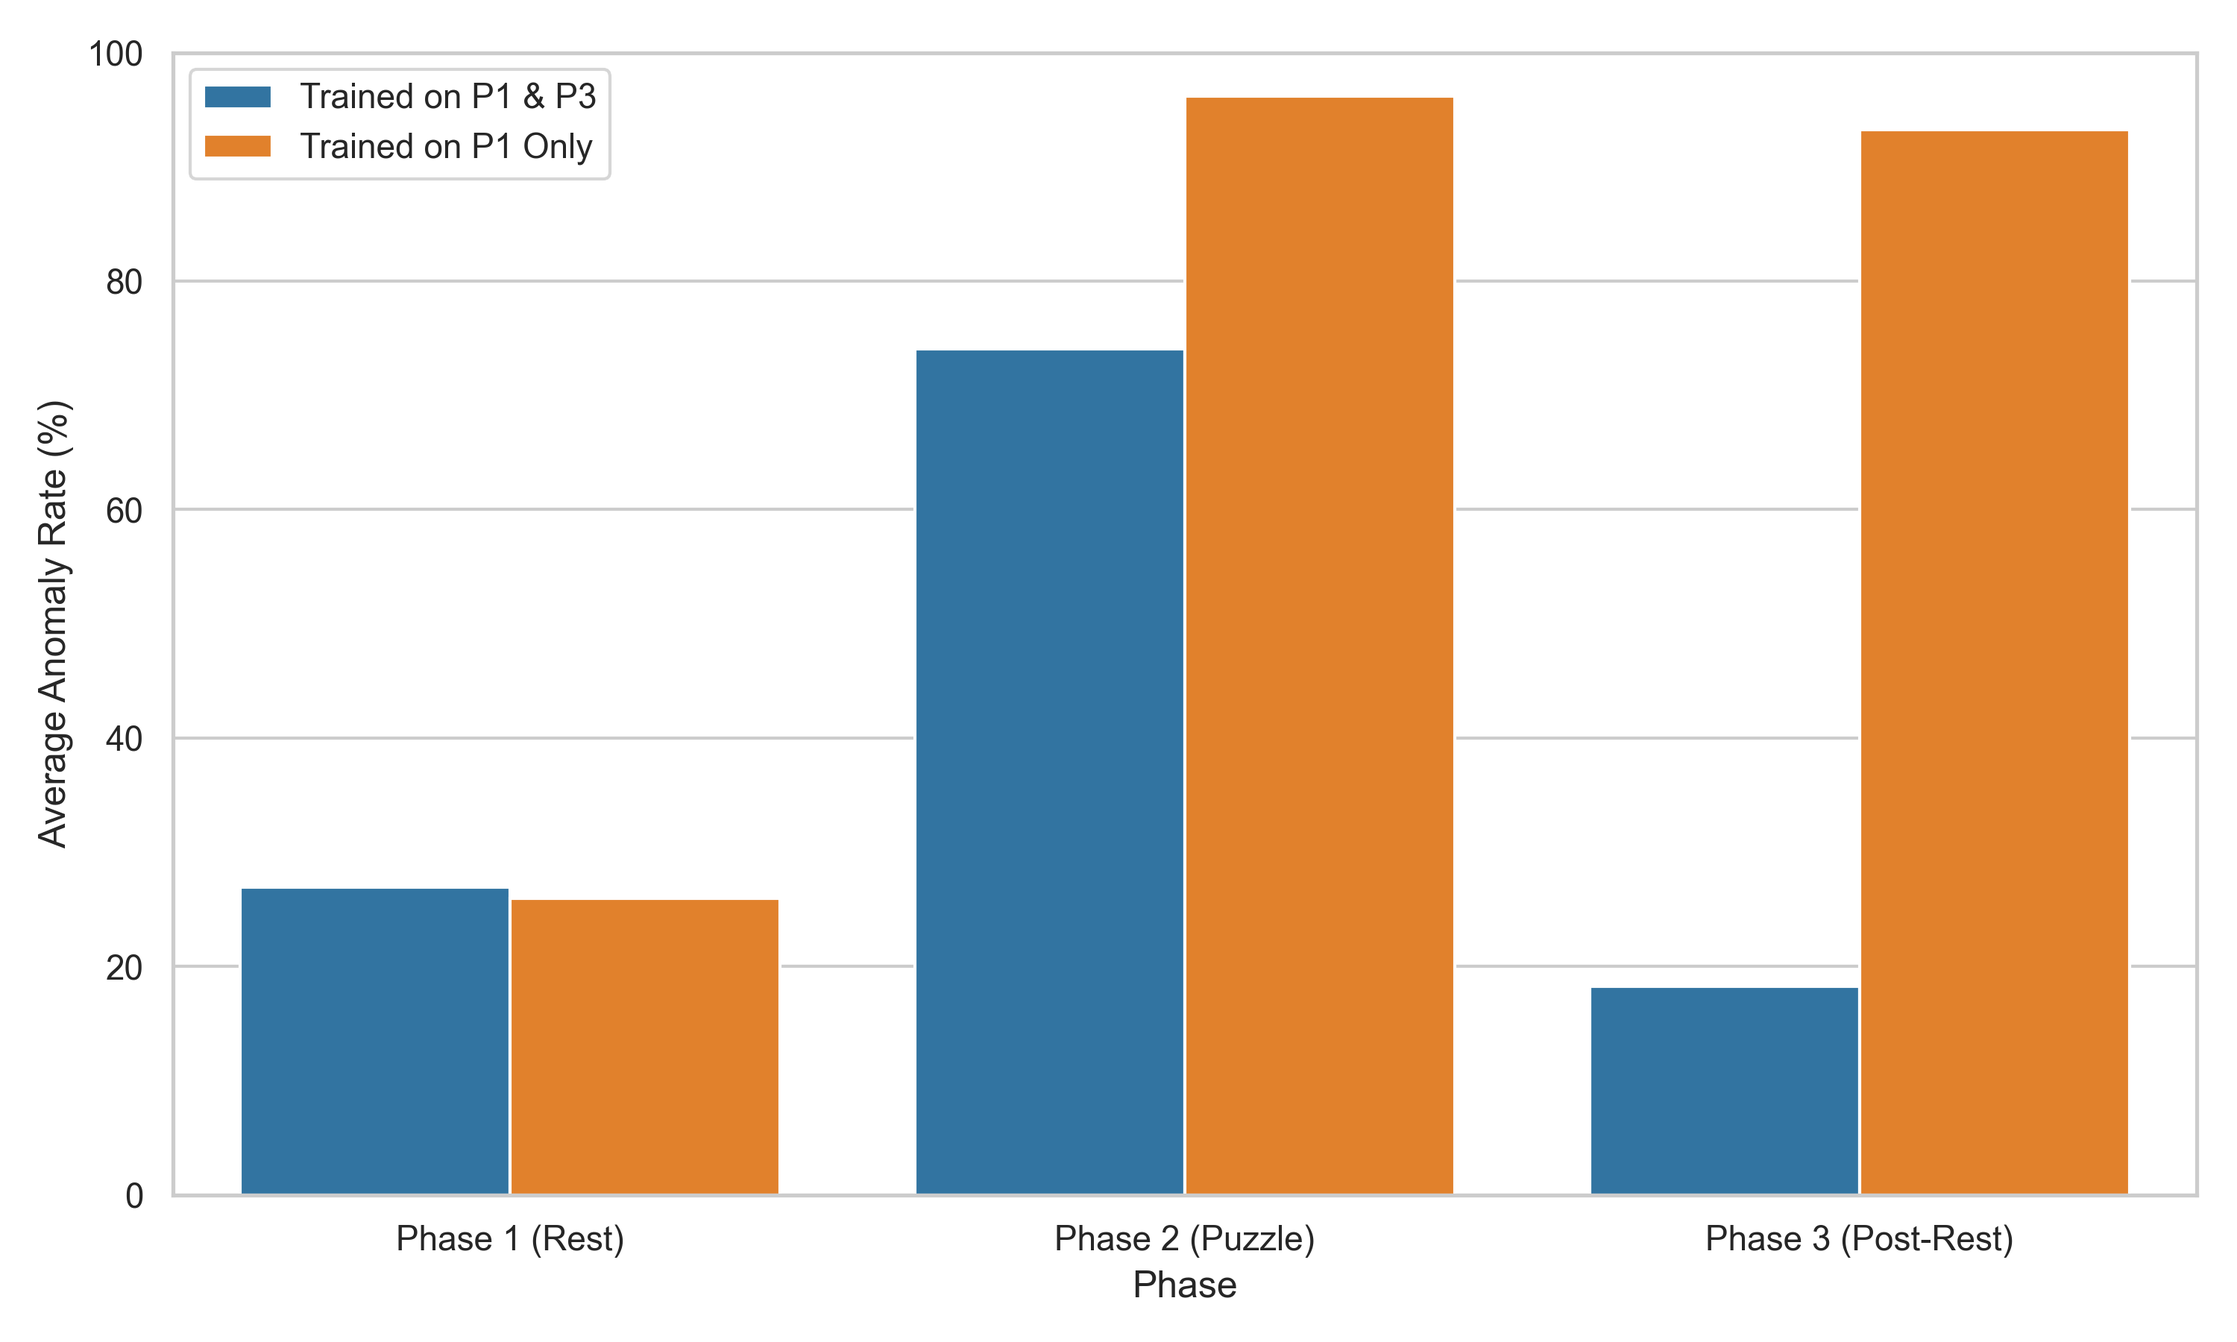
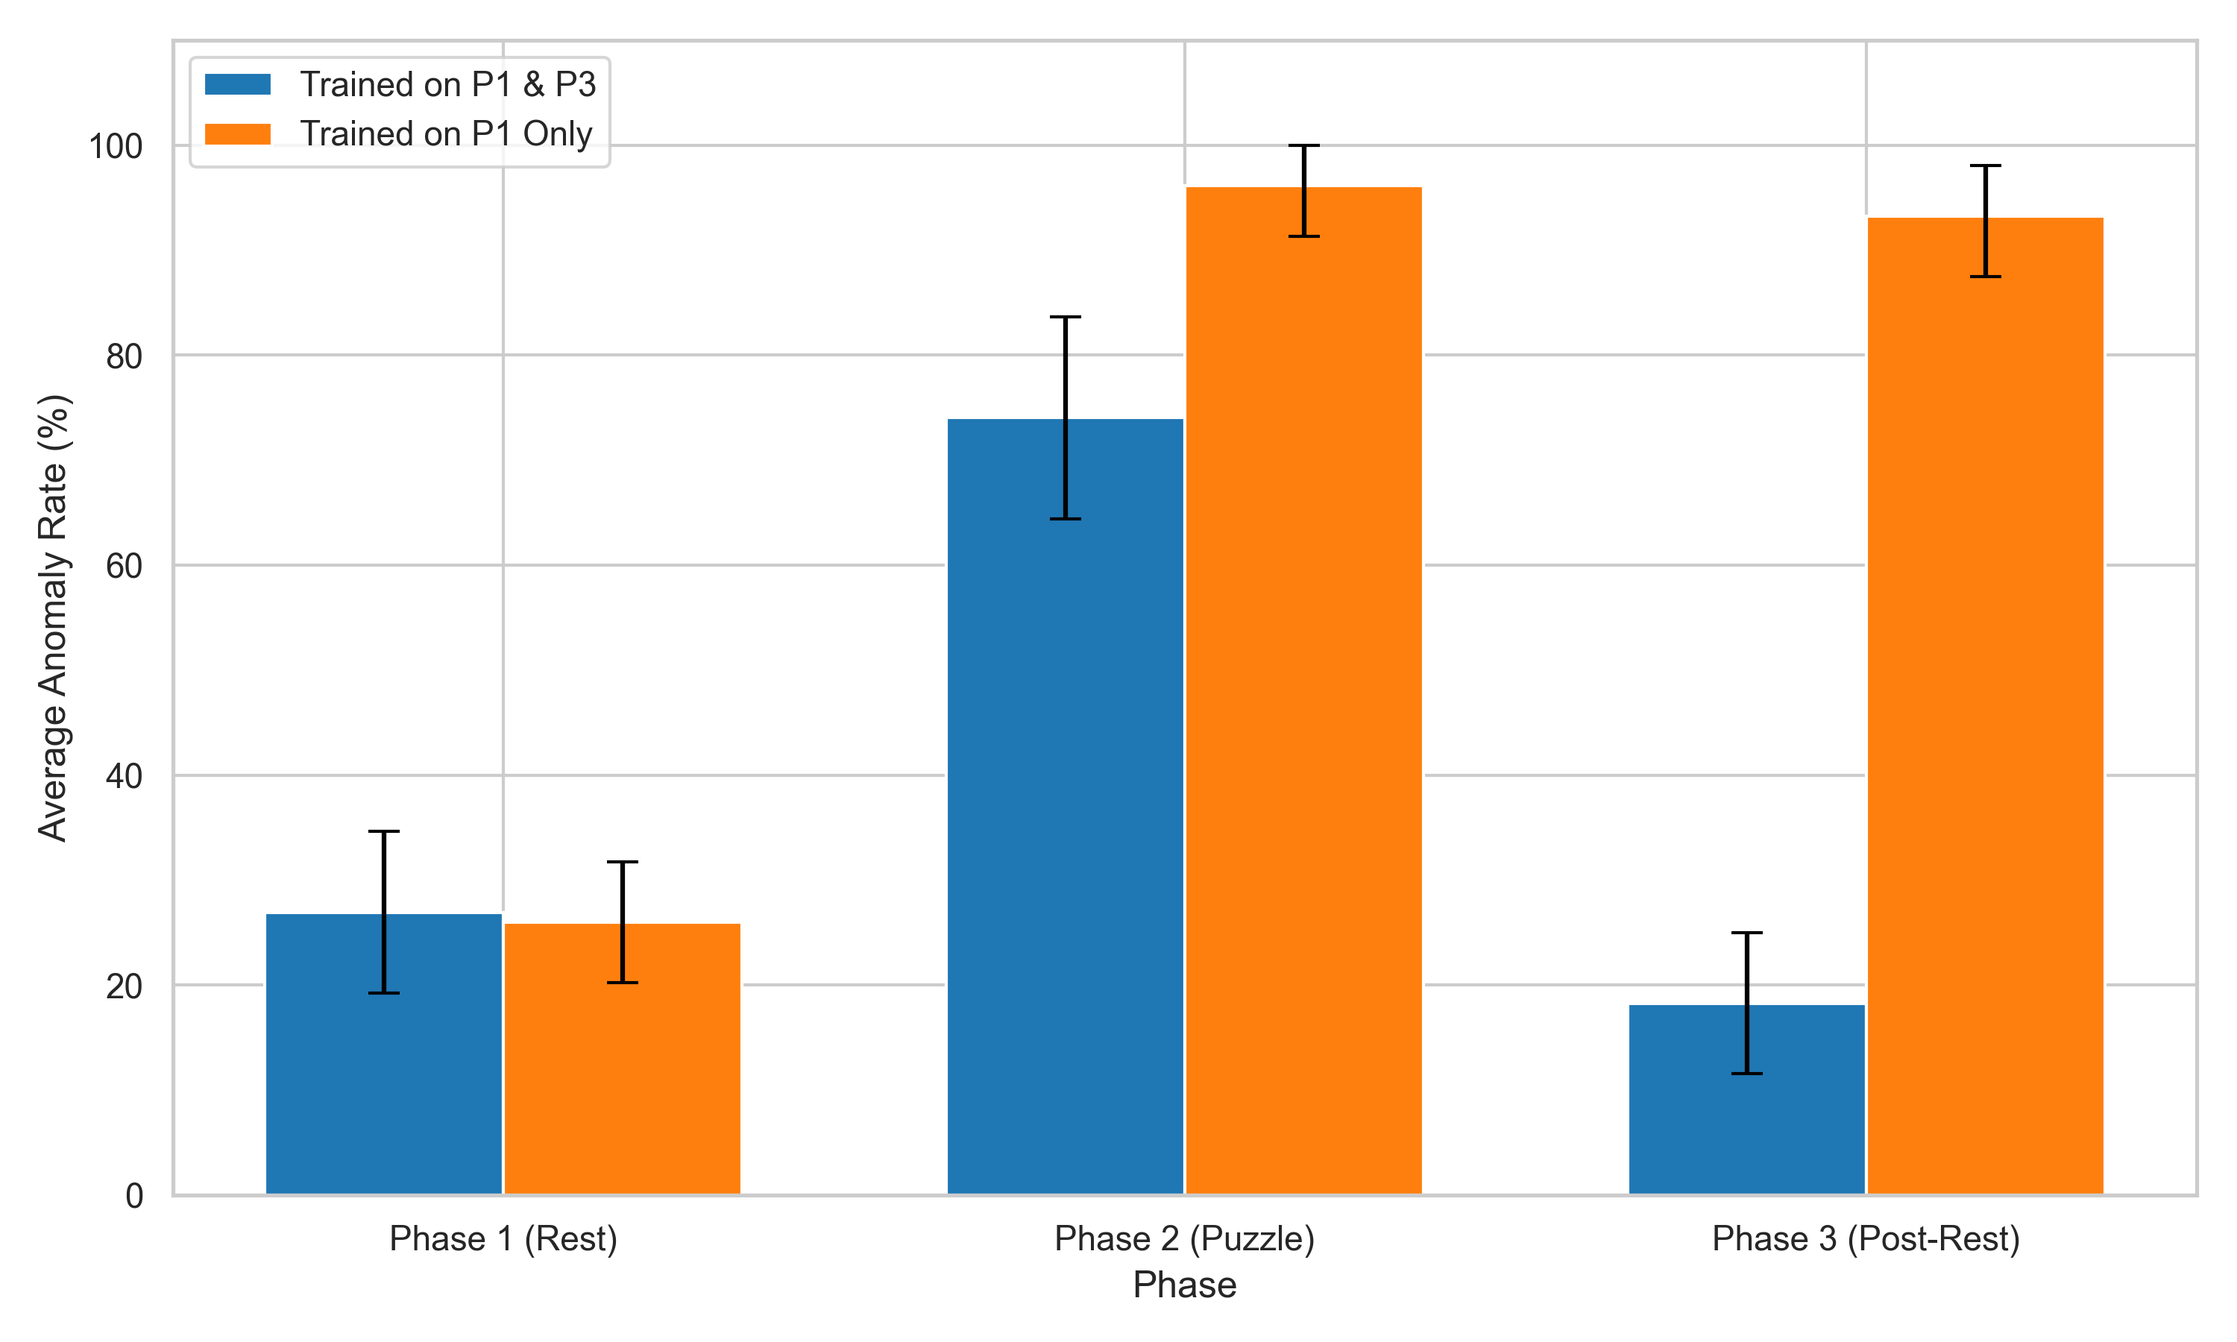
[feat]: Added bootstrapping

diff --git a/pipeline.py b/pipeline.py
@@ -5,9 +5,62 @@ from sklearn.preprocessing import StandardScaler
 from sklearn.decomposition import PCA
 from sklearn.svm import OneClassSVM
 from sklearn.model_selection import LeaveOneGroupOut
+import warnings
 import scipy.stats as stats
 import matplotlib.pyplot as plt
 import seaborn as sns
+
+
+def bootstrap_ci(values, n_boot=2000, ci=0.95, seed=42):
+    """Bootstrap CI on the mean of `values` (list/array of per-fold results)."""
+    rng = np.random.default_rng(seed)
+    values = np.asarray(values)
+    boot_means = [np.mean(rng.choice(values, size=len(values), replace=True))
+                  for _ in range(n_boot)]
+    lo = np.percentile(boot_means, 100 * (1 - ci) / 2)
+    hi = np.percentile(boot_means, 100 * (1 - (1 - ci) / 2))
+    return lo, hi
+
+
+def cluster_bootstrap_corr_ci(subjects, flags, vals, n_boot=2000, ci=0.95, seed=42):
+    """Cluster bootstrap CI on point-biserial r.
+
+    Resamples *subjects* (the natural independent unit) rather than individual
+    observations.  Each resampled subject contributes all its observations, so
+    within-subject correlation is preserved and the CI correctly reflects
+    uncertainty at the subject level.
+
+    Returns (nan, nan) when fewer than 50% of resamples yield a finite r
+    (can occur with severely imbalanced anomaly flags).
+    """
+    rng = np.random.default_rng(seed)
+    subjects = np.asarray(subjects)
+    flags    = np.asarray(flags)
+    vals     = np.asarray(vals)
+    unique_subjects = np.unique(subjects)
+    n_subjects = len(unique_subjects)
+
+    boot_corrs = []
+    for _ in range(n_boot):
+        boot_subjs = rng.choice(unique_subjects, size=n_subjects, replace=True)
+        b_flags, b_vals = [], []
+        for s in boot_subjs:
+            mask = subjects == s
+            b_flags.append(flags[mask])
+            b_vals.append(vals[mask])
+        b_flags = np.concatenate(b_flags)
+        b_vals  = np.concatenate(b_vals)
+        with warnings.catch_warnings(), np.errstate(invalid='ignore'):
+            warnings.simplefilter("ignore")
+            r, _ = stats.pointbiserialr(b_flags, b_vals)
+        if np.isfinite(r):
+            boot_corrs.append(r)
+
+    if len(boot_corrs) < n_boot * 0.5:
+        return np.nan, np.nan
+    lo = np.percentile(boot_corrs, 100 * (1 - ci) / 2)
+    hi = np.percentile(boot_corrs, 100 * (1 - (1 - ci) / 2))
+    return lo, hi
 
 
 data_path = os.path.join("data", 'HR_data_2.csv')
@@ -15,29 +68,26 @@ df = pd.read_csv(data_path)
 
 df = df.drop(columns=["Unnamed: 0", "Round", "Puzzler", "original_ID", "raw_data_path", "Team_ID", "Cohort"])
 
-quastinare_columns = ["Frustrated","upset","hostile", "alert", "ashamed", "inspired", "nervous", "attentive", "afraid", "active", "determined"]
+quastinare_columns = ["Frustrated", "upset", "hostile", "alert", "ashamed", "inspired",
+                      "nervous", "attentive", "afraid", "active", "determined"]
 data_columns = [col for col in df.columns if col not in quastinare_columns + ["Phase"] + ["Individual"]]
 
 df = df.dropna(subset=data_columns)
 
-# --- NEW: List to collect average rates across experiments for the final chart ---
-chart_data = []
-# -------------------------------------------------------------------------------
+chart_data = []       # dicts with mean + CI per (model, phase)
+all_corr_dfs = {}
+results_phase1_phase3 = None
 
-# loop over experiments (phase 1+3 and only phase 1)
 for experiment in [["phase1", "phase3"], ["phase1"]]:
     exp_label = "_".join(experiment)
-    
+
     df_experiment = df.copy()
     scaled_data = []
-    
-    # Isolate resting data per subject
+
     for subject_id, subject_data in df_experiment.groupby('Individual'):
         resting_data = subject_data[subject_data['Phase'].isin(experiment)]
-        
         scaler = StandardScaler()
         scaler.fit(resting_data[data_columns])
-        
         subject_scaled = subject_data.copy()
         subject_scaled[data_columns] = scaler.transform(subject_data[data_columns])
         scaled_data.append(subject_scaled)
@@ -51,117 +101,233 @@ for experiment in [["phase1", "phase3"], ["phase1"]]:
     all_test_evaluations = []
 
     for fold_idx, (train_index, test_index) in enumerate(logo.split(df_scaled, groups=groups)):
-        
         train_df = df_scaled.iloc[train_index]
         test_df = df_scaled.iloc[test_index]
-        
         test_subject = test_df['Individual'].iloc[0]
-        
-        train_rest = train_df[train_df['Phase'].isin(experiment)][data_columns]
 
+        train_rest = train_df[train_df['Phase'].isin(experiment)][data_columns]
         test_phase1 = test_df[test_df['Phase'] == "phase1"][data_columns]
         test_phase2 = test_df[test_df['Phase'] == "phase2"][data_columns]
         test_phase3 = test_df[test_df['Phase'] == "phase3"][data_columns]
 
-        # reduce dimensionality with PCA
         pca = PCA(n_components=0.95)
         pca.fit(train_rest)
-        
         train_rest_pca = pca.transform(train_rest)
-
         test_phase1_pca = pca.transform(test_phase1)
         test_phase2_pca = pca.transform(test_phase2)
         test_phase3_pca = pca.transform(test_phase3)
 
-        # train the OCSVM
         ocsvm = OneClassSVM(kernel='rbf', nu=0.1, gamma='scale')
         ocsvm.fit(train_rest_pca)
-        
-        # predict on all phases
+
         predictions_p1 = ocsvm.predict(test_phase1_pca)
         predictions_p2 = ocsvm.predict(test_phase2_pca)
         predictions_p3 = ocsvm.predict(test_phase3_pca)
-        
-        total_points = len(predictions_p2)
-        anomalies = np.sum(predictions_p2 == -1)
 
         rate_p1 = (np.sum(predictions_p1 == -1) / len(predictions_p1)) * 100 if len(predictions_p1) > 0 else 0
         rate_p2 = (np.sum(predictions_p2 == -1) / len(predictions_p2)) * 100 if len(predictions_p2) > 0 else 0
         rate_p3 = (np.sum(predictions_p3 == -1) / len(predictions_p3)) * 100 if len(predictions_p3) > 0 else 0
-        
+
         results.append({
             'Test_Subject': test_subject,
-            'Total_Puzzle_Samples': total_points,
-            'Anomalies_Flagged': anomalies,
+            'Total_Puzzle_Samples': len(predictions_p2),
+            'Anomalies_Flagged': np.sum(predictions_p2 == -1),
             'Rate_p1%': rate_p1,
-            'Rate_p2%': rate_p2, 
+            'Rate_p2%': rate_p2,
             'Rate_p3%': rate_p3,
             'PCA_Components_Used': pca.n_components_
         })
-        
+
         test_q_data = test_df[test_df['Phase'] == "phase2"][quastinare_columns].copy()
-        test_q_data['Anomaly_Flag'] = (predictions_p2 == -1).astype(int) 
+        test_q_data['Anomaly_Flag'] = (predictions_p2 == -1).astype(int)
         test_q_data['Subject'] = test_subject
         all_test_evaluations.append(test_q_data)
-        
+
     results_df = pd.DataFrame(results)
     loso_filename = os.path.join("output", f"loso_metrics_{exp_label}.csv")
     results_df.describe().to_csv(loso_filename)
-    
-
-    #print(results_df.describe())
 
     model_name = "Trained on P1 & P3" if "phase3" in experiment else "Trained on P1 Only"
-    
-    chart_data.extend([
-        {'Phase': 'Phase 1 (Rest)', 'Anomaly Rate (%)': results_df['Rate_p1%'].mean(), 'Model': model_name},
-        {'Phase': 'Phase 2 (Puzzle)', 'Anomaly Rate (%)': results_df['Rate_p2%'].mean(), 'Model': model_name},
-        {'Phase': 'Phase 3 (Post-Rest)', 'Anomaly Rate (%)': results_df['Rate_p3%'].mean(), 'Model': model_name}
-    ])
+
+    for phase_col, phase_label in [('Rate_p1%', 'Phase 1 (Rest)'),
+                                    ('Rate_p2%', 'Phase 2 (Puzzle)'),
+                                    ('Rate_p3%', 'Phase 3 (Post-Rest)')]:
+        arr = results_df[phase_col].values
+        ci_lo, ci_hi = bootstrap_ci(arr)
+        chart_data.append({
+            'Phase': phase_label,
+            'Anomaly Rate (%)': arr.mean(),
+            'CI_lo': ci_lo,
+            'CI_hi': ci_hi,
+            'Model': model_name,
+        })
 
     eval_df = pd.concat(all_test_evaluations, ignore_index=True)
     correlation_results = []
 
     for emotion in quastinare_columns:
         clean_df = eval_df.dropna(subset=[emotion, 'Anomaly_Flag'])
-        
         if len(clean_df) > 0:
-            corr, p_value = stats.pointbiserialr(clean_df['Anomaly_Flag'], clean_df[emotion])
-            sig = "*" if p_value < 0.05 else ""
-            
-            # Store in list
+            with warnings.catch_warnings():
+                warnings.simplefilter("ignore", stats.ConstantInputWarning)
+                corr, p_value = stats.pointbiserialr(clean_df['Anomaly_Flag'], clean_df[emotion])
+            # Bootstrap CI is unreliable when the anomaly flag is severely imbalanced
+            # (Exp 2 has 96% positives → biased bootstrap CIs that may not span zero
+            # even for non-significant correlations). Only report CI for Exp 1.
+            # Cluster bootstrap: resample subjects, not rows, to respect
+            # within-subject correlation (4 rounds per subject).
+            # Exp 2 (96% positive flag) → degenerate bootstrap; report n/a.
+            if "phase3" in experiment:
+                ci_lo, ci_hi = cluster_bootstrap_corr_ci(
+                    clean_df['Subject'].values,
+                    clean_df['Anomaly_Flag'].values,
+                    clean_df[emotion].values)
+            else:
+                ci_lo, ci_hi = np.nan, np.nan
             correlation_results.append({
                 'Emotion': emotion,
                 'Correlation': round(corr, 3),
+                'CI_lo': round(ci_lo, 3),
+                'CI_hi': round(ci_hi, 3),
                 'p_value': round(p_value, 3),
                 'Significant': "Yes" if p_value < 0.05 else "No"
             })
-            
-            #print(f"Emotion: {emotion.ljust(12)} | Correlation: {corr:+.3f} | p-value: {p_value:.3f} {sig}")
 
     corr_df = pd.DataFrame(correlation_results)
     corr_filename = os.path.join("output", f"correlations_{exp_label}.csv")
     corr_df.to_csv(corr_filename, index=False)
 
+    all_corr_dfs[exp_label] = corr_df.copy()
+    if "phase3" in experiment:
+        results_phase1_phase3 = results_df.copy()
 
+
+# Figure 1: Bar chart with 95% bootstrap CI error bars
 plot_df = pd.DataFrame(chart_data)
+phases = ['Phase 1 (Rest)', 'Phase 2 (Puzzle)', 'Phase 3 (Post-Rest)']
+models = ['Trained on P1 & P3', 'Trained on P1 Only']
+palette = {'Trained on P1 & P3': '#1f77b4', 'Trained on P1 Only': '#ff7f0e'}
 
 sns.set_theme(style="whitegrid")
-plt.figure(figsize=(10, 6))
+x = np.arange(len(phases))
+width = 0.35
+fig, ax = plt.subplots(figsize=(10, 6))
 
-ax = sns.barplot(x='Phase', y='Anomaly Rate (%)', hue='Model', data=plot_df, palette=['#1f77b4', '#ff7f0e'])
+for i, model in enumerate(models):
+    sub = plot_df[plot_df['Model'] == model].set_index('Phase')
+    means = [sub.loc[p, 'Anomaly Rate (%)'] for p in phases]
+    ci_lo = [sub.loc[p, 'CI_lo'] for p in phases]
+    ci_hi = [sub.loc[p, 'CI_hi'] for p in phases]
+    yerr  = [[m - lo for m, lo in zip(means, ci_lo)],
+              [hi - m for m, hi in zip(means, ci_hi)]]
+    offset = (i - 0.5) * width
+    ax.bar(x + offset, means, width, label=model, color=palette[model],
+           yerr=yerr, capsize=5, error_kw={'linewidth': 1.5, 'ecolor': 'black'})
 
-plt.ylabel('Average Anomaly Rate (%)', fontsize=12)
-plt.xlabel('Phase', fontsize=12)
-plt.ylim(0, 100)
-
-
-handles, labels = ax.get_legend_handles_labels()
-plt.legend(handles=handles, labels=labels, loc='upper left')
-
+ax.set_xticks(x)
+ax.set_xticklabels(phases, fontsize=11)
+ax.set_ylabel('Average Anomaly Rate (%)', fontsize=12)
+ax.set_xlabel('Phase', fontsize=12)
+ax.set_ylim(0, 110)
+ax.legend(loc='upper left')
 plt.tight_layout()
-
-chart_filename = os.path.join("figs", "carry_over_effect_chart.png")
-plt.savefig(chart_filename, dpi=300)
-
+plt.savefig(os.path.join("figs", "carry_over_effect_chart.png"), dpi=300)
 plt.show()
+
+
+# Figure 2: Correlation heatmap (r + significance star)
+emotions_order = ["alert", "attentive", "active", "determined", "inspired",
+                  "Frustrated", "upset", "hostile", "nervous", "ashamed", "afraid"]
+
+p1p3 = all_corr_dfs['phase1_phase3'].set_index('Emotion')
+p1   = all_corr_dfs['phase1'].set_index('Emotion')
+
+corr_matrix = pd.DataFrame({
+    'P1 & P3 Baseline': p1p3.loc[emotions_order, 'Correlation'].values,
+    'P1 Only Baseline': p1.loc[emotions_order, 'Correlation'].values,
+}, index=emotions_order)
+
+annot_p1p3 = [f"{r:.2f}{'*' if s == 'Yes' else ''}"
+              for r, s in zip(p1p3.loc[emotions_order, 'Correlation'],
+                              p1p3.loc[emotions_order, 'Significant'])]
+annot_p1   = [f"{r:.2f}{'*' if s == 'Yes' else ''}"
+              for r, s in zip(p1.loc[emotions_order, 'Correlation'],
+                              p1.loc[emotions_order, 'Significant'])]
+
+annot_matrix = pd.DataFrame({'P1 & P3 Baseline': annot_p1p3,
+                              'P1 Only Baseline': annot_p1},
+                             index=emotions_order)
+
+fig, ax = plt.subplots(figsize=(7, 6))
+sns.heatmap(corr_matrix, annot=annot_matrix, fmt='', cmap='coolwarm',
+            center=0, vmin=-0.4, vmax=0.4, linewidths=0.5, ax=ax,
+            cbar_kws={'label': 'Point-biserial r'})
+ax.set_title('Emotion–Anomaly Correlations by Baseline Training Set', fontsize=12)
+plt.tight_layout()
+plt.savefig(os.path.join("figs", "correlation_heatmap.png"), dpi=300)
+plt.show()
+
+
+# Figure 3: Forest plot — r with 95% bootstrap CI 
+fig, ax = plt.subplots(figsize=(9, 7))
+y_pos = np.arange(len(emotions_order))
+offsets = [-0.22, 0.22]
+colors_f = ['#1f77b4', '#ff7f0e']
+labels_f = ['P1 & P3 Baseline', 'P1 Only Baseline']
+keys_f   = ['phase1_phase3', 'phase1']
+
+for offset, color, label, key in zip(offsets, colors_f, labels_f, keys_f):
+    df_c = all_corr_dfs[key].set_index('Emotion')
+    for j, em in enumerate(emotions_order):
+        r    = df_c.loc[em, 'Correlation']
+        lo   = df_c.loc[em, 'CI_lo']
+        hi   = df_c.loc[em, 'CI_hi']
+        sig  = df_c.loc[em, 'Significant'] == 'Yes'
+        y    = y_pos[j] + offset
+        ax.errorbar(r, y,
+                    xerr=[[r - lo], [hi - r]],
+                    fmt='o', color=color, capsize=4, linewidth=1.5,
+                    markersize=7 if sig else 5,
+                    markerfacecolor=color if sig else 'white',
+                    markeredgecolor=color,
+                    label=label if j == 0 else '')
+
+ax.axvline(0, color='black', linewidth=0.8, linestyle='--')
+ax.set_yticks(y_pos)
+ax.set_yticklabels(emotions_order, fontsize=11)
+ax.set_xlabel('Point-biserial r  (95% bootstrap CI)', fontsize=12)
+ax.set_title('Emotion–Anomaly Correlations with 95% Confidence Intervals', fontsize=12)
+ax.legend(loc='lower right')
+ax.grid(True, axis='x', alpha=0.3)
+plt.tight_layout()
+plt.savefig(os.path.join("figs", "correlation_forest.png"), dpi=300)
+plt.show()
+
+
+# Figure 4: Per-subject Phase 2 anomaly rate (Experiment 1) 
+if results_phase1_phase3 is not None:
+    mean_rate = results_phase1_phase3['Rate_p2%'].mean()
+    std_rate  = results_phase1_phase3['Rate_p2%'].std()
+    ci_lo, ci_hi = bootstrap_ci(results_phase1_phase3['Rate_p2%'].values)
+
+    fig, ax = plt.subplots(figsize=(12, 4))
+    ax.scatter(results_phase1_phase3['Test_Subject'],
+               results_phase1_phase3['Rate_p2%'],
+               color='#1f77b4', s=80, zorder=3)
+    ax.axhline(mean_rate, color='red', linestyle='--', linewidth=1.5,
+               label=f'Mean: {mean_rate:.1f}%')
+    ax.axhspan(ci_lo, ci_hi, color='red', alpha=0.10,
+               label=f'95% CI [{ci_lo:.1f}%, {ci_hi:.1f}%]')
+    ax.axhline(mean_rate + std_rate, color='orange', linestyle=':', linewidth=1.2,
+               label='Mean ± 1 SD')
+    ax.axhline(mean_rate - std_rate, color='orange', linestyle=':', linewidth=1.2)
+    ax.set_xlabel('Subject ID', fontsize=12)
+    ax.set_ylabel('Phase 2 Anomaly Rate (%)', fontsize=12)
+    ax.set_title('Per-Subject Phase 2 (Puzzle) Anomaly Rate — P1 & P3 Baseline', fontsize=12)
+    ax.set_xticks(results_phase1_phase3['Test_Subject'])
+    ax.set_ylim(0, 110)
+    ax.legend()
+    ax.grid(True, alpha=0.3)
+    plt.tight_layout()
+    plt.savefig(os.path.join("figs", "per_subject_rates.png"), dpi=300)
+    plt.show()
